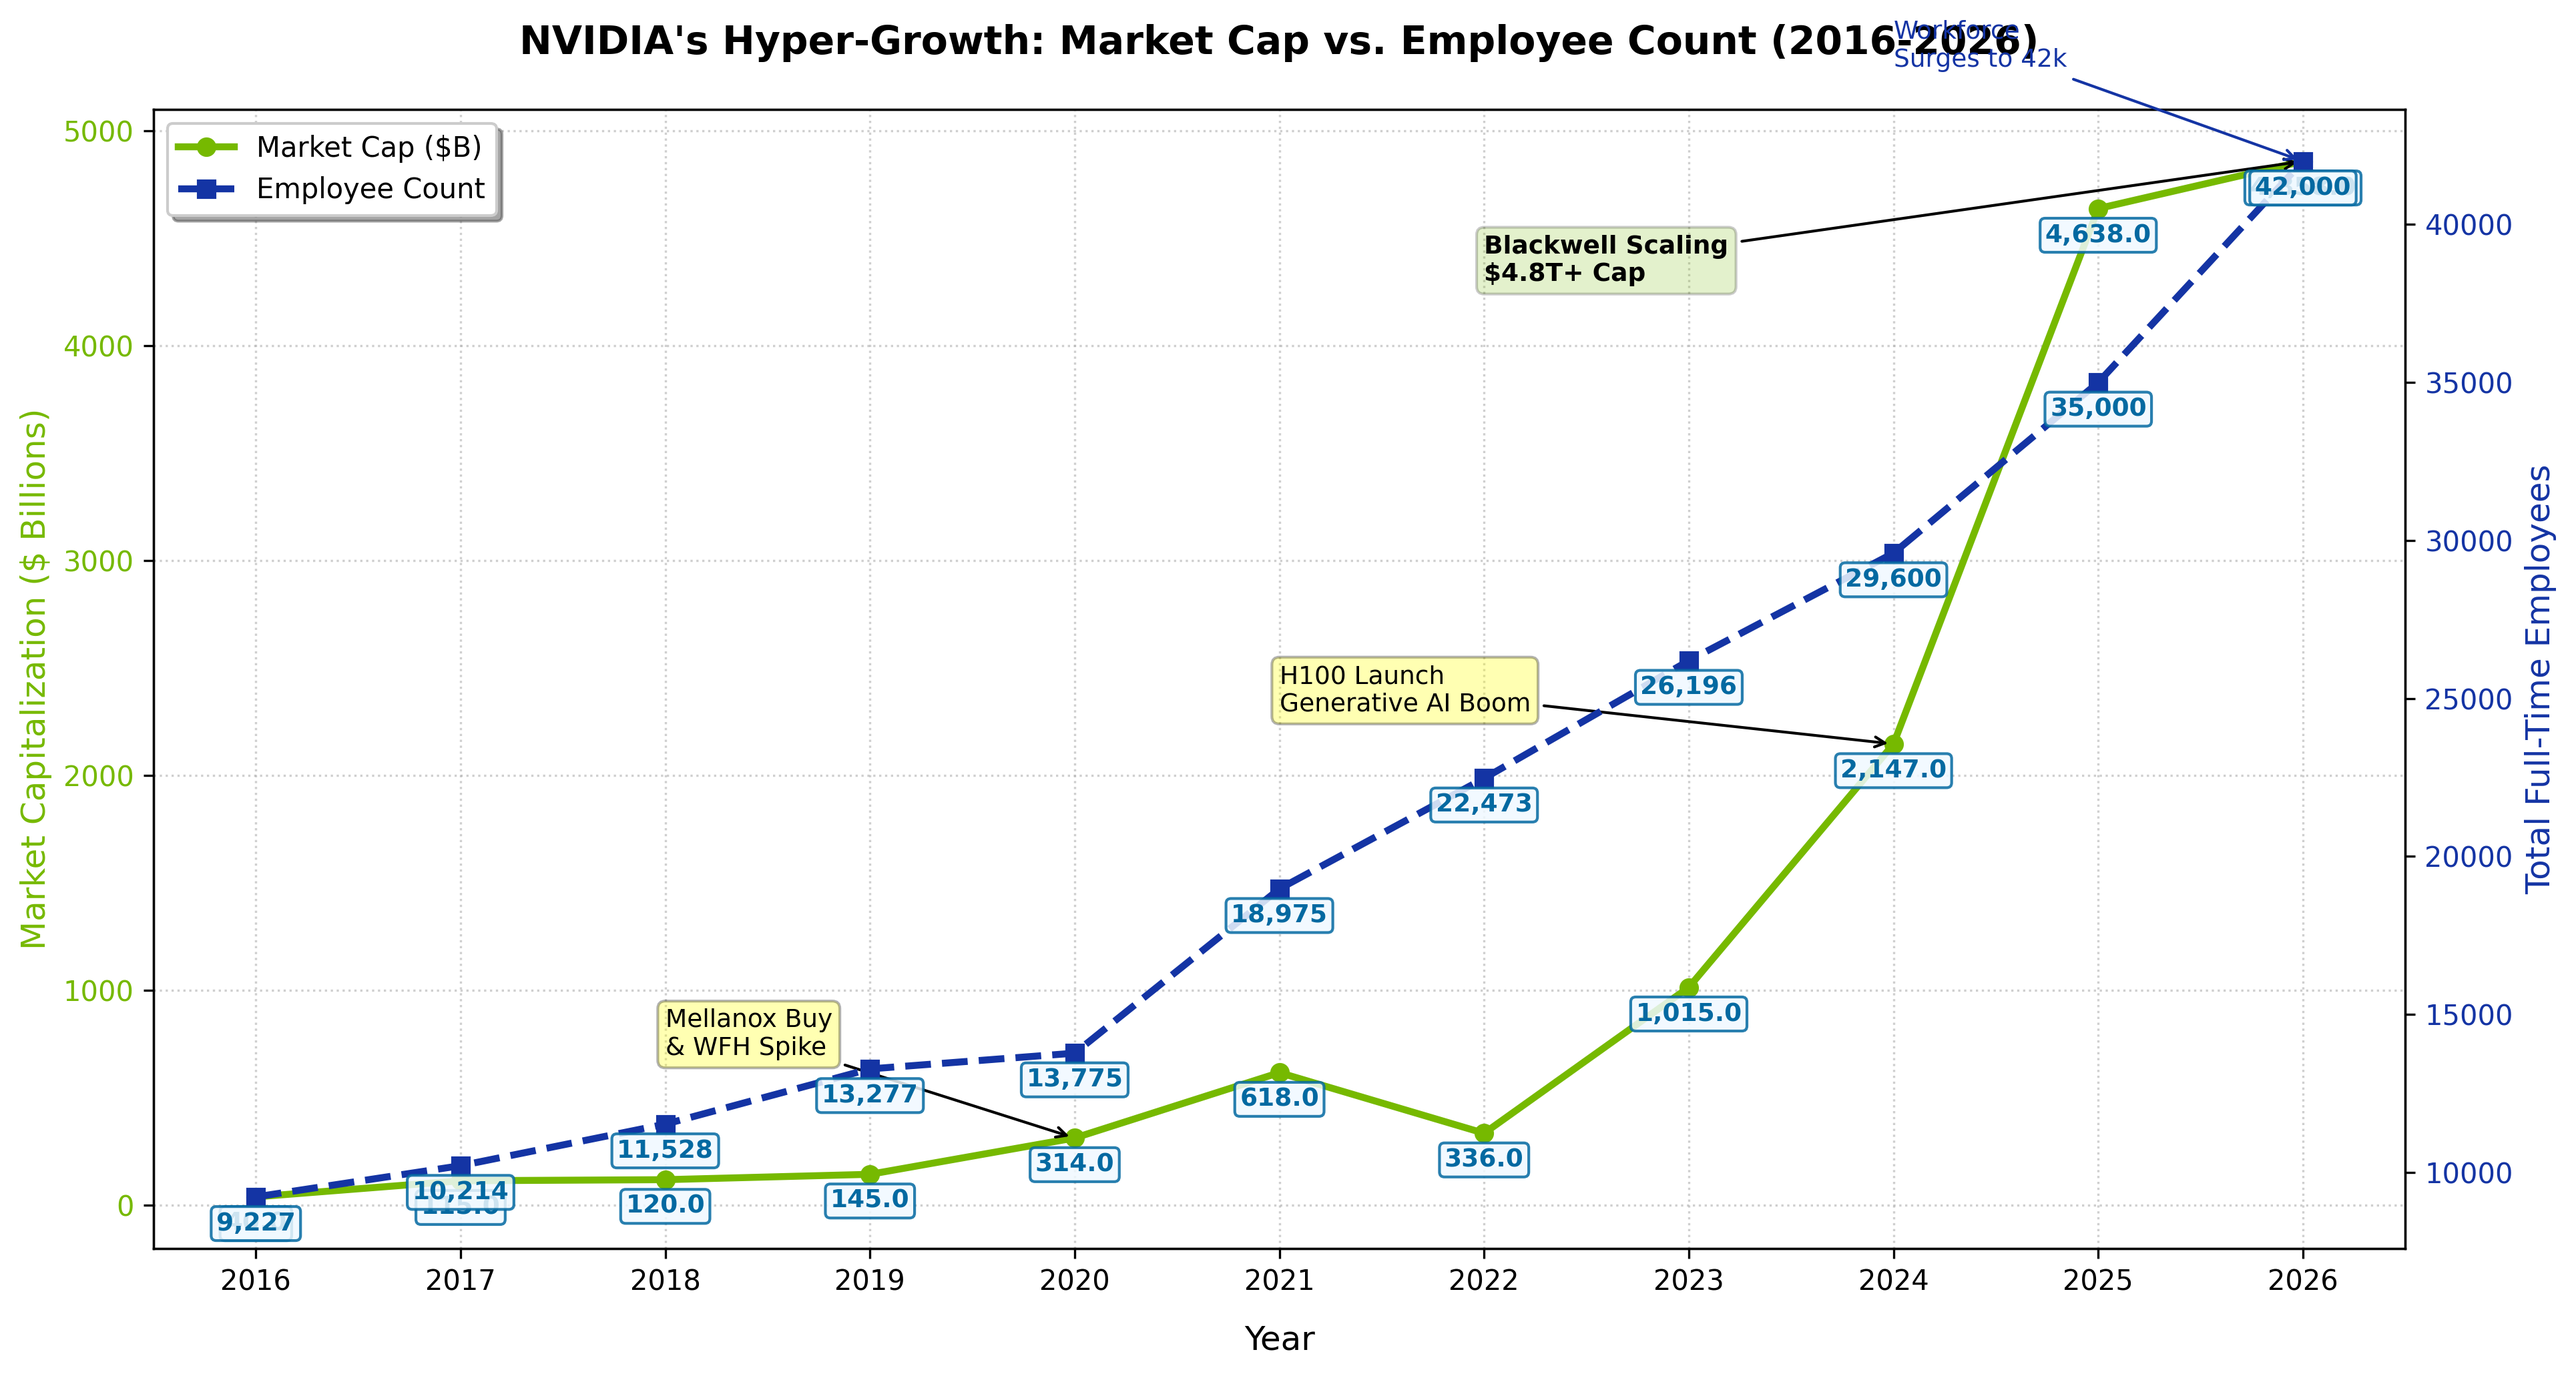
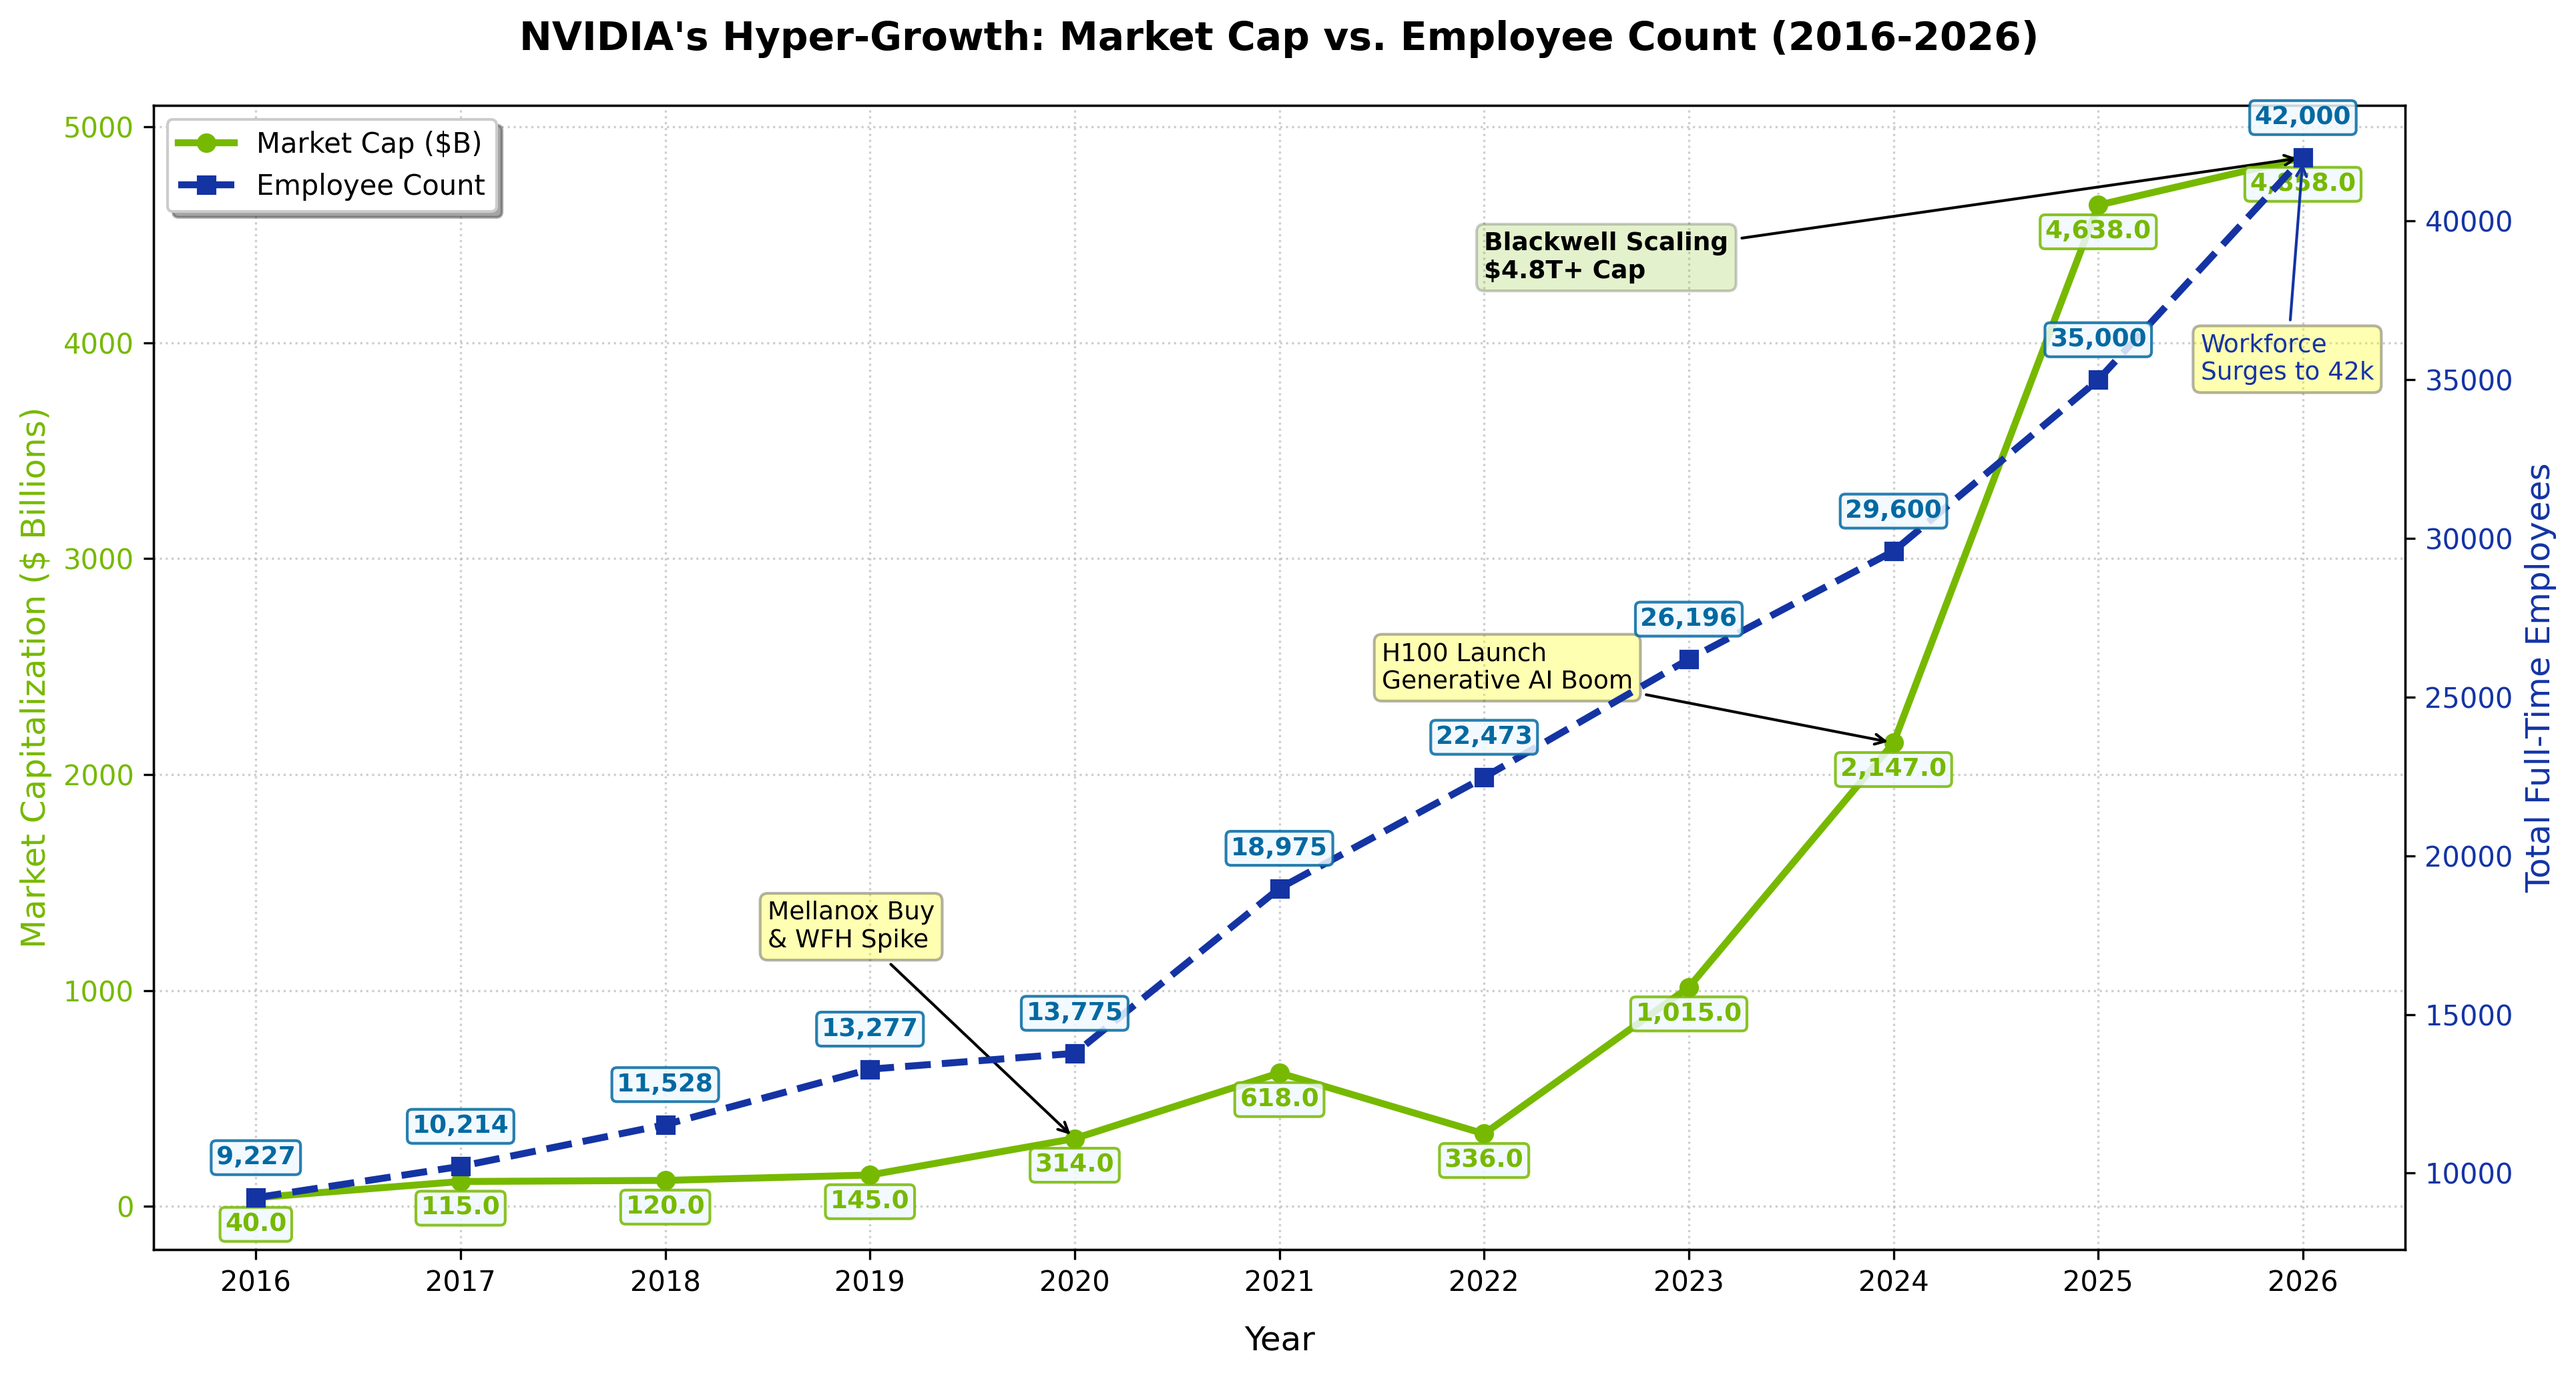
minor

diff --git a/nvidia_marketcap_vs_headcount.py b/nvidia_marketcap_vs_headcount.py
@@ -33,14 +33,14 @@ ax2.tick_params(axis='y', labelcolor=color_employees)
 # Annotation 1: 2020 Mellanox Acquisition & Work-from-Home Demand
 ax1.annotate('Mellanox Buy\n& WFH Spike', 
              xy=(2020, 314.0), 
-             xytext=(2018, 700),
+             xytext=(2018.5, 1200),
              arrowprops=dict(facecolor='black', arrowstyle='->', lw=1),
              fontsize=9, bbox=dict(boxstyle='round,pad=0.3', fc='yellow', alpha=0.3))
 
 # Annotation 2: 2024 Generative AI Explosion (H100 GPUs)
 ax1.annotate('H100 Launch\nGenerative AI Boom', 
              xy=(2024, 2147.0), 
-             xytext=(2021, 2300),
+             xytext=(2021.5, 2400),
              arrowprops=dict(facecolor='black', arrowstyle='->', lw=1),
              fontsize=9, bbox=dict(boxstyle='round,pad=0.3', fc='yellow', alpha=0.3))
 
@@ -54,9 +54,9 @@ ax1.annotate('Blackwell Scaling\n$4.8T+ Cap',
 # Annotation 4: Corporate Headcount Surge (42k employees)
 ax2.annotate('Workforce\nSurges to 42k', 
              xy=(2026, 42000), 
-             xytext=(2024, 45000),
+             xytext=(2025.5, 35000),
              arrowprops=dict(facecolor='blue', arrowstyle='->', lw=1, color='#1434A4'),
-             fontsize=9, color='#1434A4')
+             fontsize=9, color='#1434A4', bbox=dict(boxstyle='round,pad=0.3', fc='yellow', alpha=0.3))
 
 # Helper function to prevent repetitive annotation block syntax
 def add_annotations1(data_list, color_hex, bg_hex, text_y_offset):
@@ -74,7 +74,7 @@ def add_annotations1(data_list, color_hex, bg_hex, text_y_offset):
         )
 
 # Apply automated annotations with strategic vertical spacing adjustments
-add_annotations1(market_cap_billions, '#0369a1', '#f0f9ff', -12)
+add_annotations1(market_cap_billions, '#76B900', '#f0f9ff', -12)
 
 def add_annotations2(data_list, color_hex, bg_hex, text_y_offset):
     for i, count in enumerate(data_list):
@@ -91,7 +91,7 @@ def add_annotations2(data_list, color_hex, bg_hex, text_y_offset):
         )
 
 # Apply automated annotations with strategic vertical spacing adjustments
-add_annotations2(employee_count, '#0369a1', '#f0f9ff', -12)
+add_annotations2(employee_count, '#0369a1', '#f0f9ff', 12)
 
 # ------------------ CODE ANNOTATIONS END HERE ------------------
 
